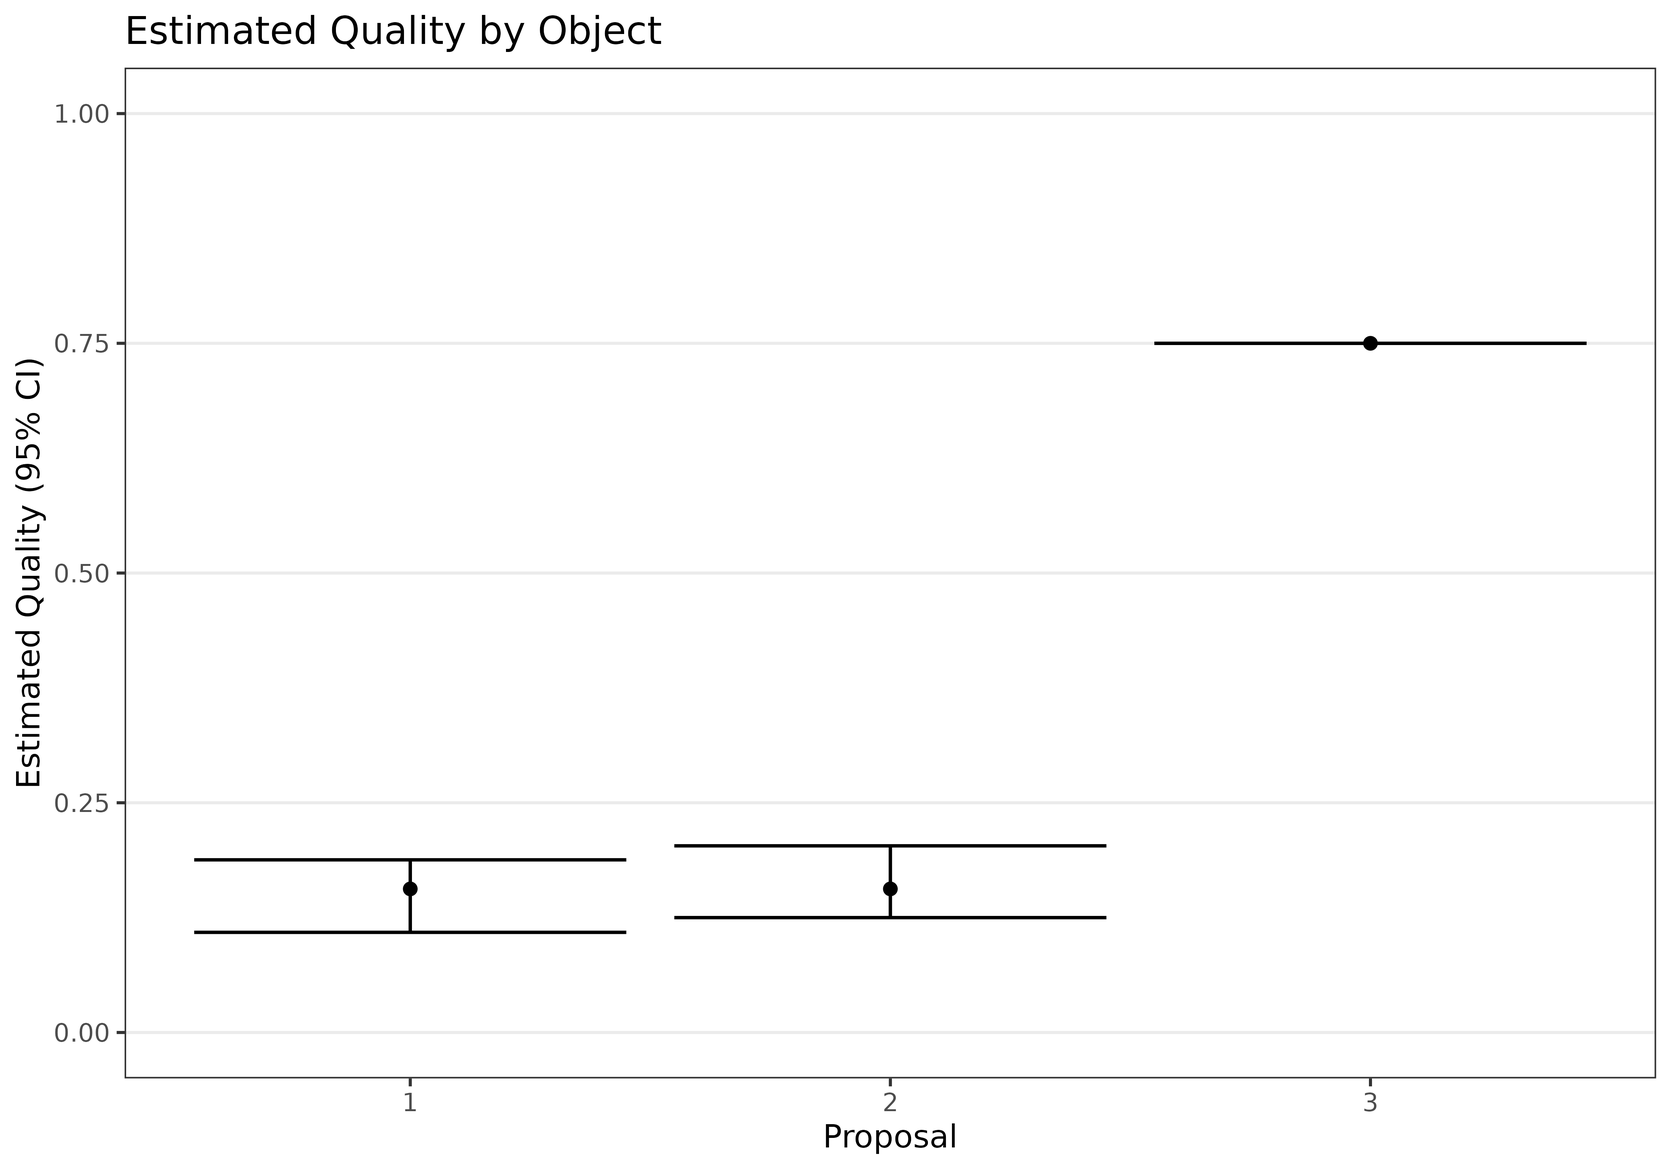
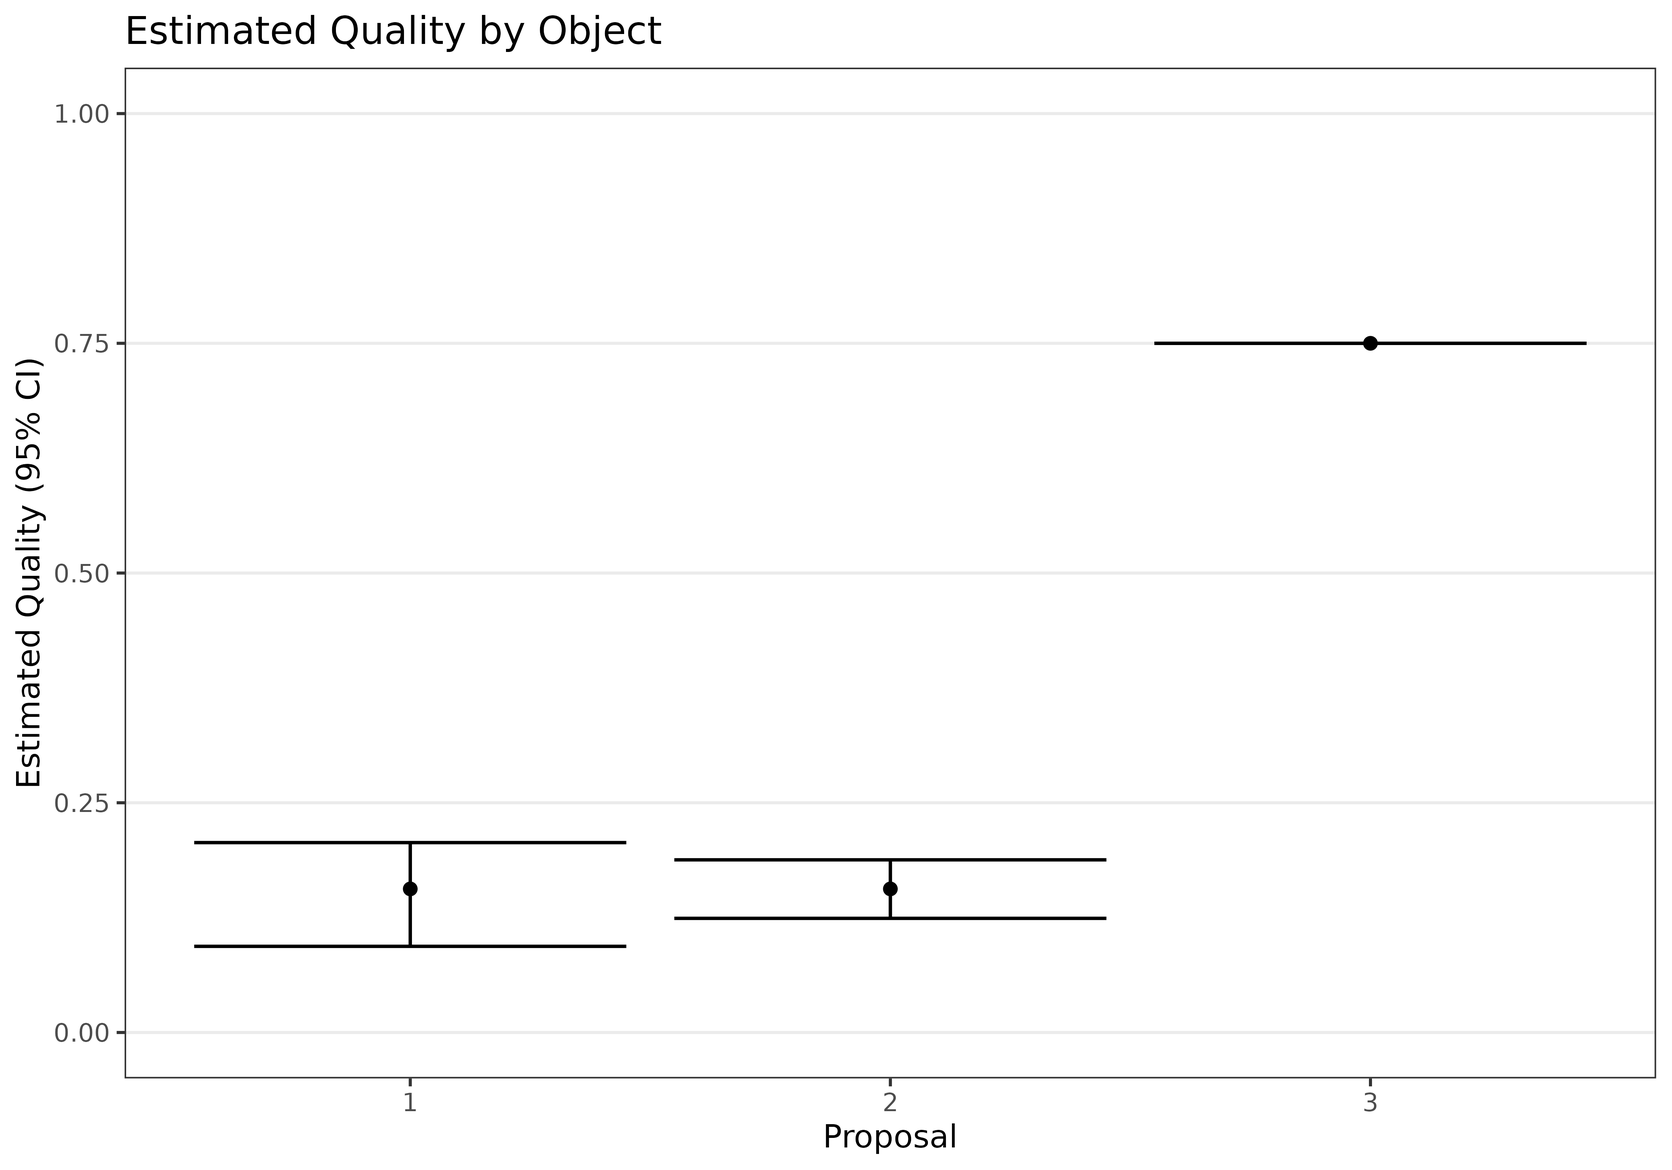
Deploying to gh-pages from @ pearce790/rankrate@2aceb24713f4b8912213993da4e2aec012da0ab0 🚀

Changed region(s): [[0.1243, 0.7756, 0.373, 0.8377], [0.4041, 0.7136, 0.6528, 0.7446], [0.1243, 0.7136, 0.373, 0.7446]]

diff --git a/reference/ci_mb.html b/reference/ci_mb.html
@@ -113,9 +113,9 @@ matrix of bootstrap estimates of (p,theta) (returned only if <code>all==TRUE</co
     <div class="sourceCode"><pre class="sourceCode r"><code><span class="r-in"><span><span class="fu"><a href="https://rdrr.io/r/utils/data.html" class="external-link">data</a></span><span class="op">(</span><span class="st">"ToyData1"</span><span class="op">)</span></span></span>
 <span class="r-in"><span><span class="fu">ci_mb</span><span class="op">(</span><span class="va">ToyData1</span><span class="op">$</span><span class="va">rankings</span>,<span class="va">ToyData1</span><span class="op">$</span><span class="va">ratings</span>,<span class="va">ToyData1</span><span class="op">$</span><span class="va">M</span>,method<span class="op">=</span><span class="st">"ASTAR"</span>,all<span class="op">=</span><span class="cn">TRUE</span><span class="op">)</span></span></span>
 <span class="r-out co"><span class="r-pr">#&gt;</span> $ci</span>
-<span class="r-out co"><span class="r-pr">#&gt;</span>            p1        p2   p3 theta</span>
-<span class="r-out co"><span class="r-pr">#&gt;</span> 5%  0.0625000 0.0625000 0.75 1e+08</span>
-<span class="r-out co"><span class="r-pr">#&gt;</span> 95% 0.1804687 0.1804687 0.75 1e+08</span>
+<span class="r-out co"><span class="r-pr">#&gt;</span>           p1       p2   p3 theta</span>
+<span class="r-out co"><span class="r-pr">#&gt;</span> 5%  0.078125 0.078125 0.75 1e+08</span>
+<span class="r-out co"><span class="r-pr">#&gt;</span> 95% 0.171875 0.171875 0.75 1e+08</span>
 <span class="r-out co"><span class="r-pr">#&gt;</span> </span>
 <span class="r-out co"><span class="r-pr">#&gt;</span> $ci_ranks</span>
 <span class="r-out co"><span class="r-pr">#&gt;</span>     Object1 Object2 Object3</span>
@@ -177,56 +177,56 @@ matrix of bootstrap estimates of (p,theta) (returned only if <code>all==TRUE</co
 <span class="r-out co"><span class="r-pr">#&gt;</span> </span>
 <span class="r-out co"><span class="r-pr">#&gt;</span> $bootstrap_ptheta</span>
 <span class="r-out co"><span class="r-pr">#&gt;</span>             p1       p2   p3 theta</span>
-<span class="r-out co"><span class="r-pr">#&gt;</span>  [1,] 0.171875 0.171875 0.75 1e+08</span>
-<span class="r-out co"><span class="r-pr">#&gt;</span>  [2,] 0.140625 0.140625 0.75 1e+08</span>
-<span class="r-out co"><span class="r-pr">#&gt;</span>  [3,] 0.171875 0.171875 0.75 1e+08</span>
+<span class="r-out co"><span class="r-pr">#&gt;</span>  [1,] 0.140625 0.140625 0.75 1e+08</span>
+<span class="r-out co"><span class="r-pr">#&gt;</span>  [2,] 0.156250 0.156250 0.75 1e+08</span>
+<span class="r-out co"><span class="r-pr">#&gt;</span>  [3,] 0.078125 0.078125 0.75 1e+08</span>
 <span class="r-out co"><span class="r-pr">#&gt;</span>  [4,] 0.109375 0.109375 0.75 1e+08</span>
 <span class="r-out co"><span class="r-pr">#&gt;</span>  [5,] 0.125000 0.125000 0.75 1e+08</span>
 <span class="r-out co"><span class="r-pr">#&gt;</span>  [6,] 0.125000 0.125000 0.75 1e+08</span>
-<span class="r-out co"><span class="r-pr">#&gt;</span>  [7,] 0.171875 0.171875 0.75 1e+08</span>
-<span class="r-out co"><span class="r-pr">#&gt;</span>  [8,] 0.156250 0.156250 0.75 1e+08</span>
-<span class="r-out co"><span class="r-pr">#&gt;</span>  [9,] 0.140625 0.140625 0.75 1e+08</span>
-<span class="r-out co"><span class="r-pr">#&gt;</span> [10,] 0.093750 0.093750 0.75 1e+08</span>
-<span class="r-out co"><span class="r-pr">#&gt;</span> [11,] 0.156250 0.156250 0.75 1e+08</span>
-<span class="r-out co"><span class="r-pr">#&gt;</span> [12,] 0.140625 0.140625 0.75 1e+08</span>
-<span class="r-out co"><span class="r-pr">#&gt;</span> [13,] 0.140625 0.140625 0.75 1e+08</span>
-<span class="r-out co"><span class="r-pr">#&gt;</span> [14,] 0.109375 0.109375 0.75 1e+08</span>
-<span class="r-out co"><span class="r-pr">#&gt;</span> [15,] 0.140625 0.140625 0.75 1e+08</span>
-<span class="r-out co"><span class="r-pr">#&gt;</span> [16,] 0.125000 0.125000 0.75 1e+08</span>
-<span class="r-out co"><span class="r-pr">#&gt;</span> [17,] 0.093750 0.093750 0.75 1e+08</span>
+<span class="r-out co"><span class="r-pr">#&gt;</span>  [7,] 0.140625 0.140625 0.75 1e+08</span>
+<span class="r-out co"><span class="r-pr">#&gt;</span>  [8,] 0.171875 0.171875 0.75 1e+08</span>
+<span class="r-out co"><span class="r-pr">#&gt;</span>  [9,] 0.109375 0.109375 0.75 1e+08</span>
+<span class="r-out co"><span class="r-pr">#&gt;</span> [10,] 0.109375 0.109375 0.75 1e+08</span>
+<span class="r-out co"><span class="r-pr">#&gt;</span> [11,] 0.078125 0.078125 0.75 1e+08</span>
+<span class="r-out co"><span class="r-pr">#&gt;</span> [12,] 0.078125 0.078125 0.75 1e+08</span>
+<span class="r-out co"><span class="r-pr">#&gt;</span> [13,] 0.093750 0.093750 0.75 1e+08</span>
+<span class="r-out co"><span class="r-pr">#&gt;</span> [14,] 0.031250 0.031250 0.75 1e+08</span>
+<span class="r-out co"><span class="r-pr">#&gt;</span> [15,] 0.156250 0.156250 0.75 1e+08</span>
+<span class="r-out co"><span class="r-pr">#&gt;</span> [16,] 0.156250 0.156250 0.75 1e+08</span>
+<span class="r-out co"><span class="r-pr">#&gt;</span> [17,] 0.125000 0.125000 0.75 1e+08</span>
 <span class="r-out co"><span class="r-pr">#&gt;</span> [18,] 0.109375 0.109375 0.75 1e+08</span>
 <span class="r-out co"><span class="r-pr">#&gt;</span> [19,] 0.109375 0.109375 0.75 1e+08</span>
-<span class="r-out co"><span class="r-pr">#&gt;</span> [20,] 0.140625 0.140625 0.75 1e+08</span>
-<span class="r-out co"><span class="r-pr">#&gt;</span> [21,] 0.093750 0.093750 0.75 1e+08</span>
-<span class="r-out co"><span class="r-pr">#&gt;</span> [22,] 0.234375 0.234375 0.75 1e+08</span>
-<span class="r-out co"><span class="r-pr">#&gt;</span> [23,] 0.156250 0.156250 0.75 1e+08</span>
-<span class="r-out co"><span class="r-pr">#&gt;</span> [24,] 0.187500 0.187500 0.75 1e+08</span>
-<span class="r-out co"><span class="r-pr">#&gt;</span> [25,] 0.093750 0.093750 0.75 1e+08</span>
-<span class="r-out co"><span class="r-pr">#&gt;</span> [26,] 0.093750 0.093750 0.75 1e+08</span>
-<span class="r-out co"><span class="r-pr">#&gt;</span> [27,] 0.156250 0.156250 0.75 1e+08</span>
-<span class="r-out co"><span class="r-pr">#&gt;</span> [28,] 0.078125 0.078125 0.75 1e+08</span>
-<span class="r-out co"><span class="r-pr">#&gt;</span> [29,] 0.062500 0.062500 0.75 1e+08</span>
-<span class="r-out co"><span class="r-pr">#&gt;</span> [30,] 0.078125 0.078125 0.75 1e+08</span>
+<span class="r-out co"><span class="r-pr">#&gt;</span> [20,] 0.125000 0.125000 0.75 1e+08</span>
+<span class="r-out co"><span class="r-pr">#&gt;</span> [21,] 0.140625 0.140625 0.75 1e+08</span>
+<span class="r-out co"><span class="r-pr">#&gt;</span> [22,] 0.109375 0.109375 0.75 1e+08</span>
+<span class="r-out co"><span class="r-pr">#&gt;</span> [23,] 0.109375 0.109375 0.75 1e+08</span>
+<span class="r-out co"><span class="r-pr">#&gt;</span> [24,] 0.156250 0.156250 0.75 1e+08</span>
+<span class="r-out co"><span class="r-pr">#&gt;</span> [25,] 0.156250 0.156250 0.75 1e+08</span>
+<span class="r-out co"><span class="r-pr">#&gt;</span> [26,] 0.156250 0.156250 0.75 1e+08</span>
+<span class="r-out co"><span class="r-pr">#&gt;</span> [27,] 0.109375 0.109375 0.75 1e+08</span>
+<span class="r-out co"><span class="r-pr">#&gt;</span> [28,] 0.156250 0.156250 0.75 1e+08</span>
+<span class="r-out co"><span class="r-pr">#&gt;</span> [29,] 0.093750 0.093750 0.75 1e+08</span>
+<span class="r-out co"><span class="r-pr">#&gt;</span> [30,] 0.156250 0.156250 0.75 1e+08</span>
 <span class="r-out co"><span class="r-pr">#&gt;</span> [31,] 0.125000 0.125000 0.75 1e+08</span>
-<span class="r-out co"><span class="r-pr">#&gt;</span> [32,] 0.156250 0.156250 0.75 1e+08</span>
-<span class="r-out co"><span class="r-pr">#&gt;</span> [33,] 0.171875 0.171875 0.75 1e+08</span>
-<span class="r-out co"><span class="r-pr">#&gt;</span> [34,] 0.109375 0.109375 0.75 1e+08</span>
-<span class="r-out co"><span class="r-pr">#&gt;</span> [35,] 0.125000 0.125000 0.75 1e+08</span>
-<span class="r-out co"><span class="r-pr">#&gt;</span> [36,] 0.125000 0.125000 0.75 1e+08</span>
-<span class="r-out co"><span class="r-pr">#&gt;</span> [37,] 0.125000 0.125000 0.75 1e+08</span>
-<span class="r-out co"><span class="r-pr">#&gt;</span> [38,] 0.046875 0.046875 0.75 1e+08</span>
-<span class="r-out co"><span class="r-pr">#&gt;</span> [39,] 0.109375 0.109375 0.75 1e+08</span>
-<span class="r-out co"><span class="r-pr">#&gt;</span> [40,] 0.156250 0.156250 0.75 1e+08</span>
-<span class="r-out co"><span class="r-pr">#&gt;</span> [41,] 0.109375 0.109375 0.75 1e+08</span>
-<span class="r-out co"><span class="r-pr">#&gt;</span> [42,] 0.078125 0.078125 0.75 1e+08</span>
-<span class="r-out co"><span class="r-pr">#&gt;</span> [43,] 0.140625 0.140625 0.75 1e+08</span>
-<span class="r-out co"><span class="r-pr">#&gt;</span> [44,] 0.171875 0.171875 0.75 1e+08</span>
-<span class="r-out co"><span class="r-pr">#&gt;</span> [45,] 0.062500 0.062500 0.75 1e+08</span>
-<span class="r-out co"><span class="r-pr">#&gt;</span> [46,] 0.187500 0.187500 0.75 1e+08</span>
-<span class="r-out co"><span class="r-pr">#&gt;</span> [47,] 0.093750 0.093750 0.75 1e+08</span>
-<span class="r-out co"><span class="r-pr">#&gt;</span> [48,] 0.062500 0.062500 0.75 1e+08</span>
-<span class="r-out co"><span class="r-pr">#&gt;</span> [49,] 0.062500 0.062500 0.75 1e+08</span>
-<span class="r-out co"><span class="r-pr">#&gt;</span> [50,] 0.046875 0.046875 0.75 1e+08</span>
+<span class="r-out co"><span class="r-pr">#&gt;</span> [32,] 0.078125 0.078125 0.75 1e+08</span>
+<span class="r-out co"><span class="r-pr">#&gt;</span> [33,] 0.156250 0.156250 0.75 1e+08</span>
+<span class="r-out co"><span class="r-pr">#&gt;</span> [34,] 0.140625 0.140625 0.75 1e+08</span>
+<span class="r-out co"><span class="r-pr">#&gt;</span> [35,] 0.093750 0.093750 0.75 1e+08</span>
+<span class="r-out co"><span class="r-pr">#&gt;</span> [36,] 0.109375 0.109375 0.75 1e+08</span>
+<span class="r-out co"><span class="r-pr">#&gt;</span> [37,] 0.093750 0.093750 0.75 1e+08</span>
+<span class="r-out co"><span class="r-pr">#&gt;</span> [38,] 0.171875 0.171875 0.75 1e+08</span>
+<span class="r-out co"><span class="r-pr">#&gt;</span> [39,] 0.125000 0.125000 0.75 1e+08</span>
+<span class="r-out co"><span class="r-pr">#&gt;</span> [40,] 0.125000 0.125000 0.75 1e+08</span>
+<span class="r-out co"><span class="r-pr">#&gt;</span> [41,] 0.156250 0.156250 0.75 1e+08</span>
+<span class="r-out co"><span class="r-pr">#&gt;</span> [42,] 0.171875 0.171875 0.75 1e+08</span>
+<span class="r-out co"><span class="r-pr">#&gt;</span> [43,] 0.093750 0.093750 0.75 1e+08</span>
+<span class="r-out co"><span class="r-pr">#&gt;</span> [44,] 0.093750 0.093750 0.75 1e+08</span>
+<span class="r-out co"><span class="r-pr">#&gt;</span> [45,] 0.140625 0.140625 0.75 1e+08</span>
+<span class="r-out co"><span class="r-pr">#&gt;</span> [46,] 0.156250 0.156250 0.75 1e+08</span>
+<span class="r-out co"><span class="r-pr">#&gt;</span> [47,] 0.171875 0.171875 0.75 1e+08</span>
+<span class="r-out co"><span class="r-pr">#&gt;</span> [48,] 0.109375 0.109375 0.75 1e+08</span>
+<span class="r-out co"><span class="r-pr">#&gt;</span> [49,] 0.093750 0.093750 0.75 1e+08</span>
+<span class="r-out co"><span class="r-pr">#&gt;</span> [50,] 0.062500 0.062500 0.75 1e+08</span>
 <span class="r-out co"><span class="r-pr">#&gt;</span> </span>
 <span class="r-in"><span></span></span>
 </code></pre></div>

diff --git a/reference/rmb.html b/reference/rmb.html
@@ -96,19 +96,19 @@ and <code>M</code>, the inputted maximum integer rating.</p>
     <div class="sourceCode"><pre class="sourceCode r"><code><span class="r-in"><span><span class="fu">rmb</span><span class="op">(</span>I<span class="op">=</span><span class="fl">5</span>,p<span class="op">=</span><span class="fu"><a href="https://rdrr.io/r/base/c.html" class="external-link">c</a></span><span class="op">(</span><span class="fl">.1</span>,<span class="fl">.3</span>,<span class="fl">.4</span>,<span class="fl">.7</span>,<span class="fl">.9</span><span class="op">)</span>,theta<span class="op">=</span><span class="fl">1</span>,M<span class="op">=</span><span class="fl">10</span><span class="op">)</span></span></span>
 <span class="r-out co"><span class="r-pr">#&gt;</span> $ratings</span>
 <span class="r-out co"><span class="r-pr">#&gt;</span>      [,1] [,2] [,3] [,4] [,5]</span>
-<span class="r-out co"><span class="r-pr">#&gt;</span> [1,]    0    2    3    8    7</span>
-<span class="r-out co"><span class="r-pr">#&gt;</span> [2,]    0    3    3    7    8</span>
-<span class="r-out co"><span class="r-pr">#&gt;</span> [3,]    2    4    2    7    9</span>
-<span class="r-out co"><span class="r-pr">#&gt;</span> [4,]    1    3    6    7    9</span>
-<span class="r-out co"><span class="r-pr">#&gt;</span> [5,]    2    1    5    6   10</span>
+<span class="r-out co"><span class="r-pr">#&gt;</span> [1,]    0    3    4    5   10</span>
+<span class="r-out co"><span class="r-pr">#&gt;</span> [2,]    1    3    5    8    8</span>
+<span class="r-out co"><span class="r-pr">#&gt;</span> [3,]    3    3    5    8    8</span>
+<span class="r-out co"><span class="r-pr">#&gt;</span> [4,]    2    4    3    5    9</span>
+<span class="r-out co"><span class="r-pr">#&gt;</span> [5,]    1    5    5    7   10</span>
 <span class="r-out co"><span class="r-pr">#&gt;</span> </span>
 <span class="r-out co"><span class="r-pr">#&gt;</span> $rankings</span>
 <span class="r-out co"><span class="r-pr">#&gt;</span>      [,1] [,2] [,3] [,4] [,5]</span>
-<span class="r-out co"><span class="r-pr">#&gt;</span> [1,]    2    1    3    4    5</span>
-<span class="r-out co"><span class="r-pr">#&gt;</span> [2,]    1    2    4    3    5</span>
-<span class="r-out co"><span class="r-pr">#&gt;</span> [3,]    4    1    3    2    5</span>
+<span class="r-out co"><span class="r-pr">#&gt;</span> [1,]    1    2    4    5    3</span>
+<span class="r-out co"><span class="r-pr">#&gt;</span> [2,]    2    1    3    4    5</span>
+<span class="r-out co"><span class="r-pr">#&gt;</span> [3,]    1    2    3    4    5</span>
 <span class="r-out co"><span class="r-pr">#&gt;</span> [4,]    1    2    3    4    5</span>
-<span class="r-out co"><span class="r-pr">#&gt;</span> [5,]    2    1    3    4    5</span>
+<span class="r-out co"><span class="r-pr">#&gt;</span> [5,]    1    2    5    3    4</span>
 <span class="r-out co"><span class="r-pr">#&gt;</span> </span>
 <span class="r-out co"><span class="r-pr">#&gt;</span> $M</span>
 <span class="r-out co"><span class="r-pr">#&gt;</span> [1] 10</span>
@@ -116,16 +116,16 @@ and <code>M</code>, the inputted maximum integer rating.</p>
 <span class="r-in"><span><span class="fu">rmb</span><span class="op">(</span>I<span class="op">=</span><span class="fl">10</span>,p<span class="op">=</span><span class="fu"><a href="https://rdrr.io/r/base/c.html" class="external-link">c</a></span><span class="op">(</span><span class="fl">.1</span>,<span class="fl">.3</span>,<span class="fl">.3</span>,<span class="fl">.7</span>,<span class="fl">.9</span><span class="op">)</span>,pi0<span class="op">=</span><span class="fu"><a href="https://rdrr.io/r/base/c.html" class="external-link">c</a></span><span class="op">(</span><span class="fl">1</span>,<span class="fl">3</span>,<span class="fl">2</span>,<span class="fl">4</span>,<span class="fl">5</span><span class="op">)</span>,theta<span class="op">=</span><span class="fl">5</span>,M<span class="op">=</span><span class="fl">40</span>,R<span class="op">=</span><span class="fl">3</span><span class="op">)</span></span></span>
 <span class="r-out co"><span class="r-pr">#&gt;</span> $ratings</span>
 <span class="r-out co"><span class="r-pr">#&gt;</span>       [,1] [,2] [,3] [,4] [,5]</span>
-<span class="r-out co"><span class="r-pr">#&gt;</span>  [1,]    6    7   13   27   36</span>
-<span class="r-out co"><span class="r-pr">#&gt;</span>  [2,]    4   12   15   22   38</span>
-<span class="r-out co"><span class="r-pr">#&gt;</span>  [3,]    7   11   12   30   35</span>
-<span class="r-out co"><span class="r-pr">#&gt;</span>  [4,]    5   12   10   25   38</span>
-<span class="r-out co"><span class="r-pr">#&gt;</span>  [5,]    7   15   13   32   35</span>
-<span class="r-out co"><span class="r-pr">#&gt;</span>  [6,]    7   15   15   29   36</span>
-<span class="r-out co"><span class="r-pr">#&gt;</span>  [7,]    8   11   13   26   38</span>
-<span class="r-out co"><span class="r-pr">#&gt;</span>  [8,]    6   11   12   24   37</span>
-<span class="r-out co"><span class="r-pr">#&gt;</span>  [9,]    7    6   13   23   36</span>
-<span class="r-out co"><span class="r-pr">#&gt;</span> [10,]    1   13    8   19   37</span>
+<span class="r-out co"><span class="r-pr">#&gt;</span>  [1,]    4   12   13   30   38</span>
+<span class="r-out co"><span class="r-pr">#&gt;</span>  [2,]    4   13   14   31   36</span>
+<span class="r-out co"><span class="r-pr">#&gt;</span>  [3,]    4   16   13   30   34</span>
+<span class="r-out co"><span class="r-pr">#&gt;</span>  [4,]    1   12   11   23   32</span>
+<span class="r-out co"><span class="r-pr">#&gt;</span>  [5,]    4   11   13   29   36</span>
+<span class="r-out co"><span class="r-pr">#&gt;</span>  [6,]    4    9   10   28   36</span>
+<span class="r-out co"><span class="r-pr">#&gt;</span>  [7,]    4   11   15   21   35</span>
+<span class="r-out co"><span class="r-pr">#&gt;</span>  [8,]    2   12   14   25   37</span>
+<span class="r-out co"><span class="r-pr">#&gt;</span>  [9,]    3   15   12   24   38</span>
+<span class="r-out co"><span class="r-pr">#&gt;</span> [10,]    5   10   11   23   34</span>
 <span class="r-out co"><span class="r-pr">#&gt;</span> </span>
 <span class="r-out co"><span class="r-pr">#&gt;</span> $rankings</span>
 <span class="r-out co"><span class="r-pr">#&gt;</span>       [,1] [,2] [,3] [,4] [,5]</span>

diff --git a/reference/rmall.html b/reference/rmall.html
@@ -85,24 +85,24 @@ rankings are drawn by definition.</p></dd>
     <h2>Examples</h2>
     <div class="sourceCode"><pre class="sourceCode r"><code><span class="r-in"><span><span class="fu">rmall</span><span class="op">(</span>I<span class="op">=</span><span class="fl">5</span>,pi0<span class="op">=</span><span class="fl">1</span><span class="op">:</span><span class="fl">5</span>,theta<span class="op">=</span><span class="fl">1</span>,R<span class="op">=</span><span class="fl">3</span><span class="op">)</span></span></span>
 <span class="r-out co"><span class="r-pr">#&gt;</span>      [,1] [,2] [,3] [,4] [,5]</span>
-<span class="r-out co"><span class="r-pr">#&gt;</span> [1,]    1    2    3   NA   NA</span>
-<span class="r-out co"><span class="r-pr">#&gt;</span> [2,]    1    2    3   NA   NA</span>
-<span class="r-out co"><span class="r-pr">#&gt;</span> [3,]    1    2    4   NA   NA</span>
-<span class="r-out co"><span class="r-pr">#&gt;</span> [4,]    1    3    4   NA   NA</span>
-<span class="r-out co"><span class="r-pr">#&gt;</span> [5,]    4    1    2   NA   NA</span>
+<span class="r-out co"><span class="r-pr">#&gt;</span> [1,]    1    4    2   NA   NA</span>
+<span class="r-out co"><span class="r-pr">#&gt;</span> [2,]    1    2    4   NA   NA</span>
+<span class="r-out co"><span class="r-pr">#&gt;</span> [3,]    1    2    3   NA   NA</span>
+<span class="r-out co"><span class="r-pr">#&gt;</span> [4,]    3    1    2   NA   NA</span>
+<span class="r-out co"><span class="r-pr">#&gt;</span> [5,]    1    3    4   NA   NA</span>
 <span class="r-in"><span><span class="fu">rmall</span><span class="op">(</span>I<span class="op">=</span><span class="fl">5</span>,pi0<span class="op">=</span><span class="fl">1</span><span class="op">:</span><span class="fl">3</span>,theta<span class="op">=</span><span class="fl">.5</span>,R<span class="op">=</span><span class="fu"><a href="https://rdrr.io/r/base/c.html" class="external-link">c</a></span><span class="op">(</span><span class="fl">1</span>,<span class="fl">1</span>,<span class="fl">1</span>,<span class="fl">1</span>,<span class="fl">3</span><span class="op">)</span><span class="op">)</span></span></span>
 <span class="r-out co"><span class="r-pr">#&gt;</span>      [,1] [,2] [,3]</span>
-<span class="r-out co"><span class="r-pr">#&gt;</span> [1,]    1   NA   NA</span>
-<span class="r-out co"><span class="r-pr">#&gt;</span> [2,]    1   NA   NA</span>
-<span class="r-out co"><span class="r-pr">#&gt;</span> [3,]    1   NA   NA</span>
+<span class="r-out co"><span class="r-pr">#&gt;</span> [1,]    2   NA   NA</span>
+<span class="r-out co"><span class="r-pr">#&gt;</span> [2,]    2   NA   NA</span>
+<span class="r-out co"><span class="r-pr">#&gt;</span> [3,]    2   NA   NA</span>
 <span class="r-out co"><span class="r-pr">#&gt;</span> [4,]    2   NA   NA</span>
-<span class="r-out co"><span class="r-pr">#&gt;</span> [5,]    3    1    2</span>
+<span class="r-out co"><span class="r-pr">#&gt;</span> [5,]    1    2    3</span>
 <span class="r-in"><span><span class="fu">rmall</span><span class="op">(</span>I<span class="op">=</span><span class="fl">5</span>,pi0<span class="op">=</span><span class="fl">1</span><span class="op">:</span><span class="fl">3</span>,theta<span class="op">=</span><span class="fl">.5</span><span class="op">)</span></span></span>
 <span class="r-out co"><span class="r-pr">#&gt;</span>      [,1] [,2] [,3]</span>
-<span class="r-out co"><span class="r-pr">#&gt;</span> [1,]    1    3    2</span>
-<span class="r-out co"><span class="r-pr">#&gt;</span> [2,]    3    2    1</span>
-<span class="r-out co"><span class="r-pr">#&gt;</span> [3,]    1    2    3</span>
-<span class="r-out co"><span class="r-pr">#&gt;</span> [4,]    3    2    1</span>
+<span class="r-out co"><span class="r-pr">#&gt;</span> [1,]    2    1    3</span>
+<span class="r-out co"><span class="r-pr">#&gt;</span> [2,]    1    2    3</span>
+<span class="r-out co"><span class="r-pr">#&gt;</span> [3,]    3    1    2</span>
+<span class="r-out co"><span class="r-pr">#&gt;</span> [4,]    3    1    2</span>
 <span class="r-out co"><span class="r-pr">#&gt;</span> [5,]    1    2    3</span>
 <span class="r-in"><span></span></span>
 </code></pre></div>
